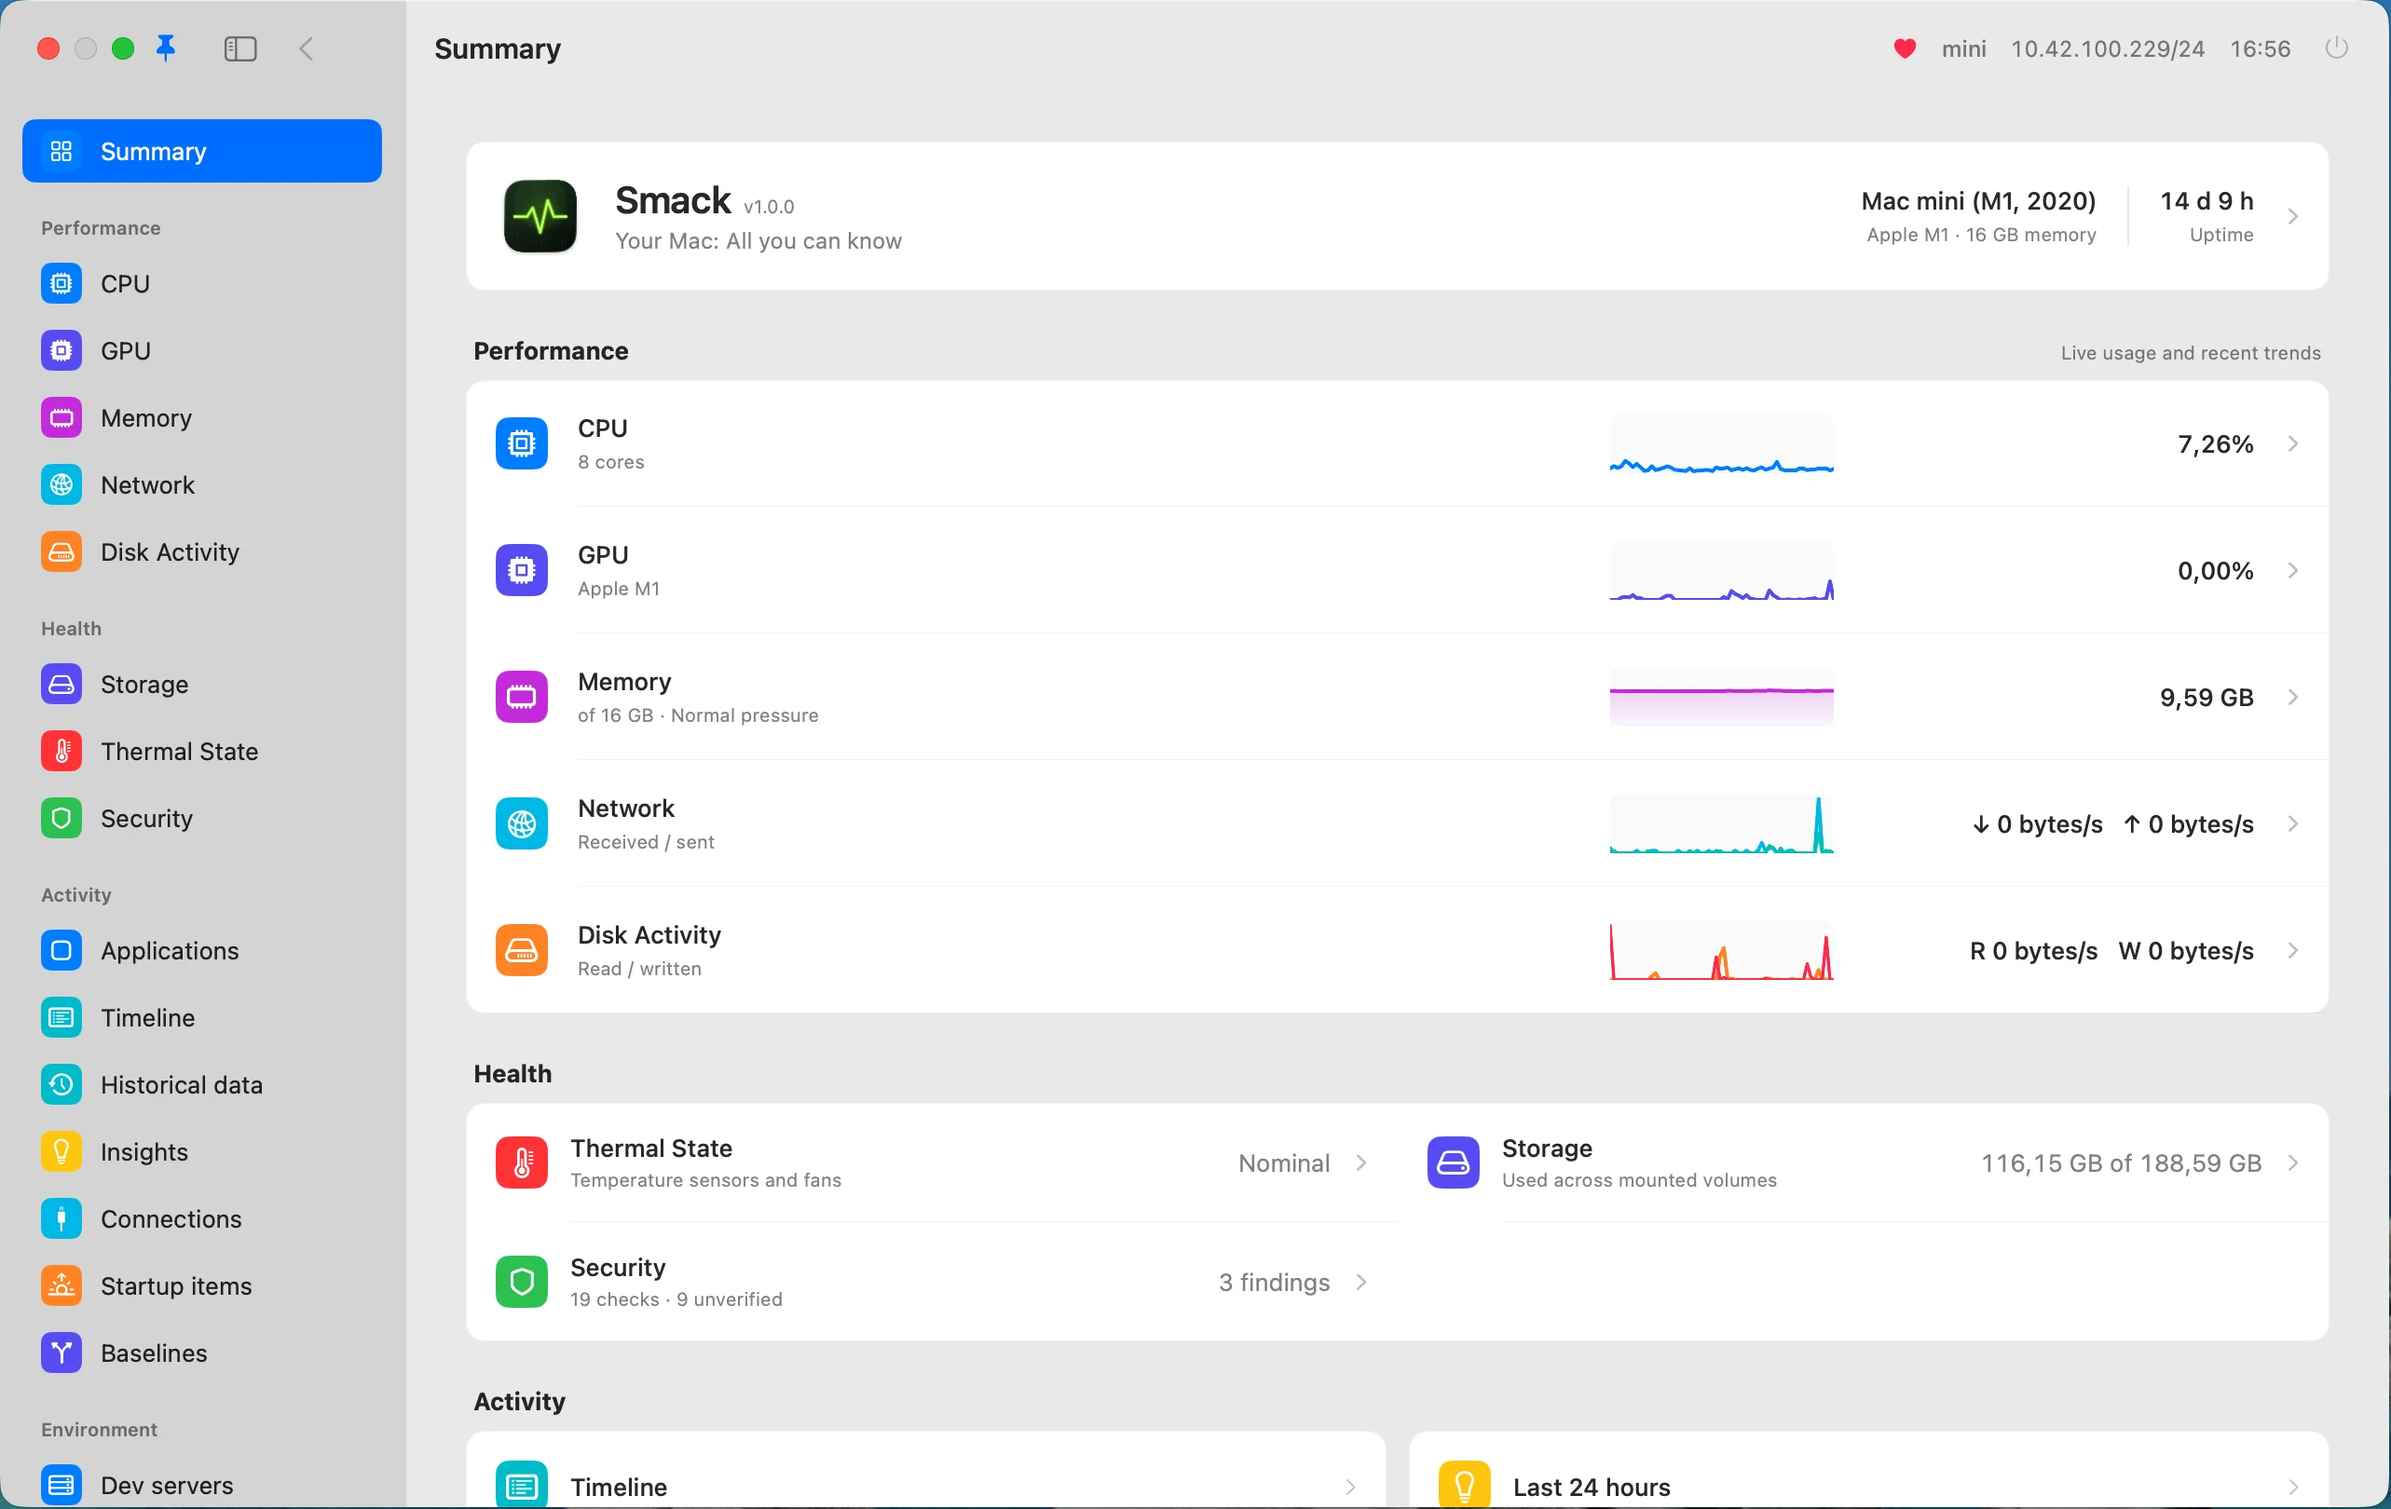
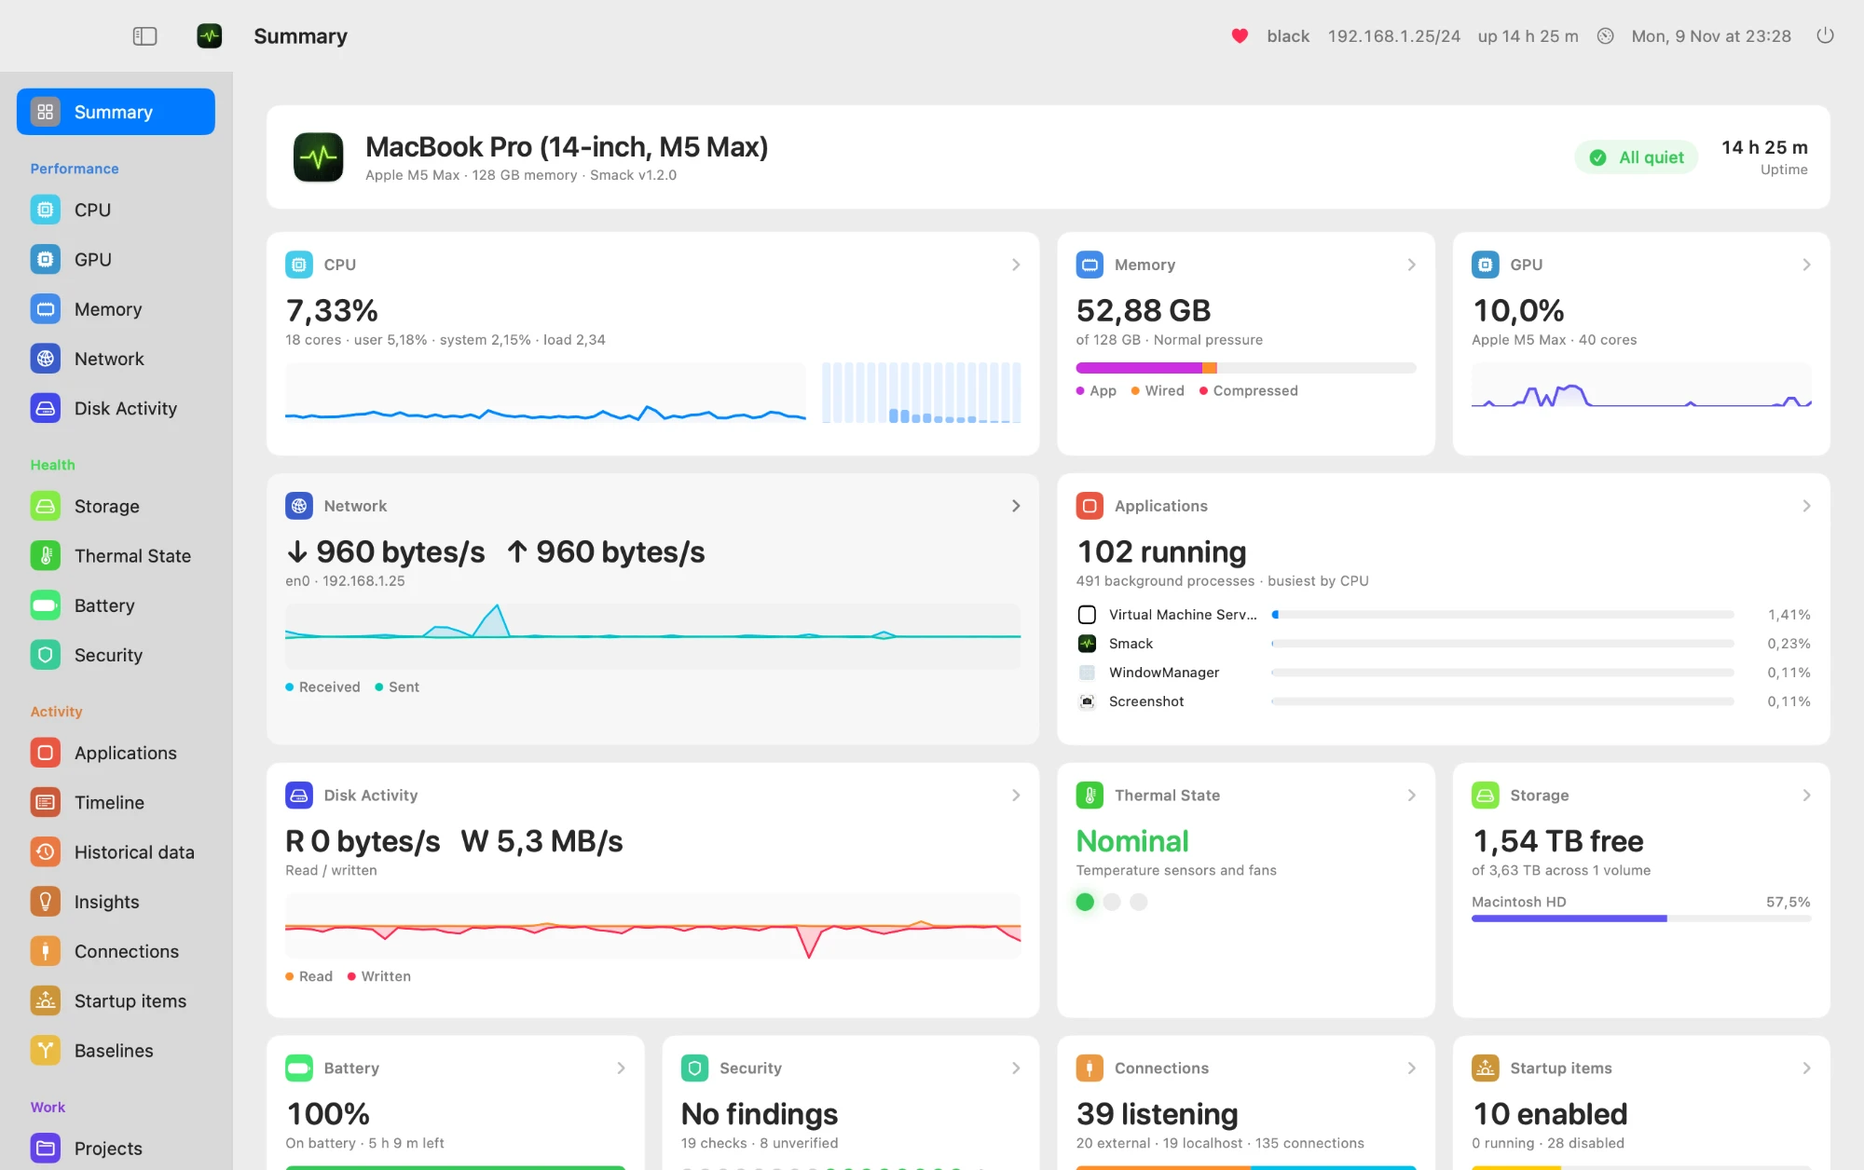
Add Smack release videos and updated screenshots
Add a Releases section to the Smack page, driven by
_data/smack_releases.yml: 1.1.0 with two click-to-play YouTube videos,
1.0.0 with the brochure. Refresh the screenshots and add Projects and
Baselines cards. Mention the YouTube embeds in the cookie and privacy
pages.

Claude-Session: https://claude.ai/code/session_01639ZDnsxJhkEdbZcpxtR6Q

diff --git a/smack.html b/smack.html
@@ -22,7 +22,7 @@ image: /assets/images/smack/summary.webp
     </div>
     <p class="smack-requirements">macOS 15+ · Apple silicon · Free &amp; open source</p>
     <figure class="smack-dashboard">
-      <a href="{{ '/assets/images/smack/summary.webp' | relative_url }}" aria-label="View full-size Smack dashboard"><img src="{{ '/assets/images/smack/summary.webp' | relative_url }}" width="1976" height="1248" alt="Smack Summary: CPU, GPU, memory, network, disk activity and system health in one dashboard" fetchpriority="high"></a>
+      <a href="{{ '/assets/images/smack/summary.webp' | relative_url }}" aria-label="View full-size Smack dashboard"><img src="{{ '/assets/images/smack/summary.webp' | relative_url }}" width="2000" height="1256" alt="Smack Summary: CPU, GPU, memory, network, disk activity and system health in one dashboard" fetchpriority="high"></a>
       <figcaption><span class="smack-live" aria-hidden="true"></span> Your whole Mac, at a glance.</figcaption>
     </figure>
   </section>
@@ -37,30 +37,61 @@ image: /assets/images/smack/summary.webp
         <a href="{{ '/assets/images/smack/cpu.webp' | relative_url }}" aria-label="View full-size CPU performance screenshot"><img src="{{ '/assets/images/smack/cpu.webp' | relative_url }}" alt="CPU view with live usage, core activity and processes ranked by consumption" width="1976" height="1248" loading="lazy"></a>
       </article>
       <article class="smack-card">
-        <div class="smack-card__copy"><span class="smack-index">02 / INVESTIGATION</span><h3>Go inside any app.</h3><p>Processes, open files, connections, logs and diagnostics.</p></div>
-        <a href="{{ '/assets/images/smack/application.webp' | relative_url }}" aria-label="View full-size application inspection screenshot"><img src="{{ '/assets/images/smack/application.webp' | relative_url }}" alt="Safari inspection with resource graphs and navigation to files, threads, logs and security" width="1976" height="1248" loading="lazy"></a>
+        <div class="smack-card__copy"><span class="smack-index">02 / INVESTIGATION</span><h3>Go inside any app.</h3><p>Every app and background process. Files, ports, logs and diagnostics, one click away.</p></div>
+        <a href="{{ '/assets/images/smack/applications.webp' | relative_url }}" aria-label="View full-size applications screenshot"><img src="{{ '/assets/images/smack/applications.webp' | relative_url }}" alt="Applications view listing running apps with CPU, memory, disk, energy and wakeups per app" width="2000" height="1256" loading="lazy"></a>
       </article>
       <article class="smack-card smack-card--agents">
-        <div class="smack-card__copy"><span class="smack-index">03 / AI AGENTS</span><h3>Know your agents.</h3><p>Discover local coding agents. Browse skills, instructions, sessions and MCP servers.</p></div>
-        <a href="{{ '/assets/images/smack/ai-agents.webp' | relative_url }}" aria-label="View full-size AI agents screenshot"><img src="{{ '/assets/images/smack/ai-agents.webp' | relative_url }}" alt="AI agent explorer showing a live session and Claude Code configuration, skills and MCP servers" width="1284" height="812" loading="lazy"></a>
+        <div class="smack-card__copy"><span class="smack-index">03 / AI AGENTS</span><h3>Know your agents.</h3><p>Replay any session on a timeline: prompts, answers, thinking, commands and files.</p></div>
+        <a href="{{ '/assets/images/smack/ai-agents.webp' | relative_url }}" aria-label="View full-size AI agents screenshot"><img src="{{ '/assets/images/smack/ai-agents.webp' | relative_url }}" alt="AI agents view with a saved OpenCode session on a timeline of prompts, answers, thinking, commands and files" width="2000" height="1256" loading="lazy"></a>
+      </article>
+      <article class="smack-card smack-card--agents">
+        <div class="smack-card__copy"><span class="smack-index">04 / PROJECTS</span><h3>Every repository, accounted for.</h3><p>Git state, dev servers, containers and the agent sessions recorded in each project.</p></div>
+        <a href="{{ '/assets/images/smack/projects.webp' | relative_url }}" aria-label="View full-size project detail screenshot"><img src="{{ '/assets/images/smack/projects.webp' | relative_url }}" alt="Project detail for a repository with its changes, branch, last commit and the agent sessions run in it" width="2000" height="1256" loading="lazy"></a>
       </article>
       <article class="smack-card">
-        <div class="smack-card__copy"><span class="smack-index">04 / DEVELOPER TOOLS</span><h3>Your stack, in sight.</h3><p>Docker containers, ports and networks. Homebrew packages. Language runtimes.</p></div>
+        <div class="smack-card__copy"><span class="smack-index">05 / BASELINES</span><h3>Spot the drift.</h3><p>Snapshot the configuration. Compare it with now. See what was added, removed or changed.</p></div>
+        <a href="{{ '/assets/images/smack/baselines.webp' | relative_url }}" aria-label="View full-size baselines screenshot"><img src="{{ '/assets/images/smack/baselines.webp' | relative_url }}" alt="Baselines view with a drift report of added, removed and changed Homebrew packages, ports, apps and containers" width="2000" height="1256" loading="lazy"></a>
+      </article>
+      <article class="smack-card">
+        <div class="smack-card__copy"><span class="smack-index">06 / DEVELOPER TOOLS</span><h3>Your stack, in sight.</h3><p>Docker containers, ports and networks. Homebrew packages. Language runtimes.</p></div>
         <a href="{{ '/assets/images/smack/docker.webp' | relative_url }}" aria-label="View full-size Docker screenshot"><img src="{{ '/assets/images/smack/docker.webp' | relative_url }}" alt="Docker containers grouped by project with live resource metrics, ports and controls" width="1284" height="812" loading="lazy"></a>
       </article>
     </div>
   </section>
 
-  <section class="smack-brochure container" aria-labelledby="smack-brochure-title">
-    <a class="smack-brochure__link" href="{{ '/assets/images/smack/Smack-1.0.0-Brochure.pdf' | relative_url }}">
-      <img src="{{ '/assets/images/smack/brochure-cover.webp' | relative_url }}" alt="Smack brochure cover featuring the app dashboard and performance views" width="842" height="595" loading="lazy">
-      <div>
-        <p class="smack-eyebrow">The illustrated tour</p>
-        <h2 id="smack-brochure-title">Explore the brochure.</h2>
-        <p>Smack 1.0.0 · PDF · 6.3 MB</p>
-        <span>Open brochure <span aria-hidden="true">↗</span></span>
+  <section class="smack-releases container" id="releases" aria-labelledby="smack-releases-title">
+    <div class="smack-section-heading"><p class="smack-eyebrow">Release by release</p><h2 id="smack-releases-title">Watch it work.</h2><p>Videos and material for each version. Videos play here, from YouTube.</p></div>
+    {% for release in site.data.smack_releases %}
+    <article class="smack-release" id="release-{{ release.version | slugify }}">
+      <header class="smack-release__head"><span class="smack-index">SMACK {{ release.version }}{% if forloop.first %} / LATEST{% endif %}</span><h3>{{ release.title }}</h3></header>
+      <div class="smack-release__body">
+        {% if release.videos %}
+        <div class="smack-videos">
+          {% for video in release.videos %}
+          <figure class="smack-video">
+            <a class="smack-video__frame" href="https://www.youtube.com/watch?v={{ video.youtube }}" data-youtube="{{ video.youtube }}" data-title="Smack {{ release.version }}: {{ video.title }}" target="_blank" rel="noopener" aria-label="Play video: {{ video.title }}">
+              <img src="{{ video.poster | relative_url }}" alt="{{ video.alt }}" loading="lazy">
+              <span class="smack-video__play" aria-hidden="true"></span>
+            </a>
+            <figcaption><strong>{{ video.title }}</strong>{% if video.text %}<span>{{ video.text }}</span>{% endif %}</figcaption>
+          </figure>
+          {% endfor %}
+        </div>
+        {% endif %}
+        {% for item in release.materials %}
+        <a class="smack-brochure__link" href="{{ item.url | relative_url }}">
+          <img src="{{ item.image | relative_url }}" alt="{{ item.alt }}" width="{{ item.width }}" height="{{ item.height }}" loading="lazy">
+          <div>
+            <p class="smack-eyebrow">{{ item.eyebrow }}</p>
+            <h4>{{ item.title }}</h4>
+            <p>{{ item.meta }}</p>
+            <span>{{ item.label }} <span aria-hidden="true">↗</span></span>
+          </div>
+        </a>
+        {% endfor %}
       </div>
-    </a>
+    </article>
+    {% endfor %}
   </section>
 
   <section class="smack-install container" aria-labelledby="smack-install-title">

diff --git a/assets/css/main.css b/assets/css/main.css
@@ -301,13 +301,29 @@ ul { list-style: none; }
   .smack-terminal { padding: 24px; }
 }
 
-.smack-brochure { padding-top: 56px; }
+.smack-release { display: grid; grid-template-columns: 220px minmax(0, 1fr); gap: 32px; padding: 32px 0; border-top: 1px solid #29372e; }
+.smack-release__head h3 { font-size: clamp(20px, 2.2vw, 26px); letter-spacing: -0.03em; line-height: 1.15; margin-top: 12px; }
+.smack-release__body { display: grid; gap: 24px; min-width: 0; }
+.smack-videos { display: grid; grid-template-columns: repeat(2, minmax(0, 1fr)); gap: 24px; }
+.smack-video__frame { position: relative; display: block; aspect-ratio: 16 / 9; border: 1px solid #2c3b31; border-radius: 12px; overflow: hidden; background: #070c09; }
+.smack-video__frame img, .smack-video__frame iframe { position: absolute; inset: 0; width: 100%; height: 100%; border: 0; }
+.smack-video__frame img { object-fit: cover; object-position: top; filter: brightness(0.6); transition: filter 0.15s; }
+a.smack-video__frame:hover { border-color: var(--smack-green); }
+a.smack-video__frame:hover img { filter: brightness(0.75); }
+.smack-video__play { position: absolute; top: 50%; left: 50%; width: 64px; height: 64px; margin: -32px 0 0 -32px; border-radius: 50%; background: var(--smack-green); box-shadow: 0 6px 30px #0009; }
+.smack-video__play::after { content: ""; position: absolute; top: 50%; left: 50%; margin: -11px 0 0 -7px; border-style: solid; border-width: 11px 0 11px 18px; border-color: transparent transparent transparent #10210b; }
+.smack-video figcaption { display: flex; flex-direction: column; gap: 4px; padding-top: 14px; font-size: 14px; }
+.smack-video figcaption strong { color: #f3f7f4; font-weight: 650; }
 .smack-brochure__link { display: grid; grid-template-columns: 1fr 1fr; align-items: center; gap: 36px; padding: 24px; border: 1px solid #2c3b31; border-radius: 12px; background: #141e19; color: var(--smack-muted); }
 .smack-brochure__link img { width: 100%; border-radius: 6px; }
-.smack-brochure__link h2 { font-size: clamp(24px, 3vw, 36px); letter-spacing: -0.035em; margin: 16px 0; }
+.smack-brochure__link h4 { color: #f3f7f4; font-size: clamp(24px, 3vw, 36px); letter-spacing: -0.035em; line-height: 1.1; margin: 16px 0; }
 .smack-brochure__link > div > p { color: var(--smack-muted); }
 .smack-brochure__link > div > span { display: inline-block; margin-top: 24px; color: var(--smack-green); font-weight: 600; }
 .smack-brochure__link:hover { border-color: var(--smack-green); }
+@media (max-width: 900px) {
+  .smack-release { grid-template-columns: 1fr; gap: 20px; }
+}
 @media (max-width: 760px) {
+  .smack-videos { grid-template-columns: 1fr; }
   .smack-brochure__link { grid-template-columns: 1fr; gap: 24px; }
 }

diff --git a/assets/js/main.js b/assets/js/main.js
@@ -26,3 +26,22 @@ if (toggle && nav) {
   nav.querySelectorAll('a').forEach(link => link.addEventListener('click', closeNav));
   window.matchMedia('(min-width: 801px)').addEventListener('change', closeNav);
 }
+
+// Click-to-play videos: YouTube is contacted only after a click.
+document.querySelectorAll('a[data-youtube]').forEach(link => {
+  link.addEventListener('click', (event) => {
+    if (event.metaKey || event.ctrlKey || event.shiftKey || event.altKey) return;
+    event.preventDefault();
+    const frame = document.createElement('div');
+    frame.className = link.className;
+    const player = document.createElement('iframe');
+    player.src = 'https://www.youtube-nocookie.com/embed/' + encodeURIComponent(link.dataset.youtube) + '?autoplay=1&rel=0';
+    player.title = link.dataset.title || 'Video';
+    player.allow = 'accelerometer; autoplay; clipboard-write; encrypted-media; gyroscope; picture-in-picture; web-share';
+    player.allowFullscreen = true;
+    player.referrerPolicy = 'strict-origin-when-cross-origin';
+    frame.appendChild(player);
+    link.replaceWith(frame);
+    player.focus();
+  });
+});

diff --git a/cookies.md b/cookies.md
@@ -35,6 +35,8 @@ When you visit this site, your browser may connect to third-party services that 
 
 Cloudflare sits between visitors and the site's origin server. It may process your IP address and HTTP request data for security and performance purposes, and may set a `__cf_buid` cookie (technically necessary, used for bot detection). See [Cloudflare's cookie policy](https://www.cloudflare.com/cookie-policy/) for details.
 
+The [Smack page]({{ '/smack/' | relative_url }}) embeds videos hosted on YouTube (Google). Nothing is requested from YouTube until you press play. The player then loads from `youtube-nocookie.com`, and Google may process your IP address and store data in your browser. See [Google's privacy policy](https://policies.google.com/privacy).
+
 ---
 
 ## Managing cookies

diff --git a/privacy.md b/privacy.md
@@ -42,6 +42,8 @@ This website is a static site. We do not operate user accounts, contact forms, o
 
 The site is hosted on **GitHub Pages** (GitHub Inc., USA). GitHub may collect technical data as described in [GitHub's privacy statement](https://docs.github.com/en/site-policy/privacy-policies/github-privacy-statement).
 
+Videos on the Smack page are hosted on **YouTube** (Google LLC, USA). They load only when you press play, from `youtube-nocookie.com`. See [Google's privacy policy](https://policies.google.com/privacy).
+
 ---
 
 ## Data retention
